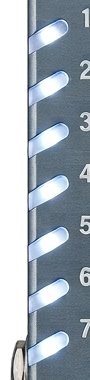
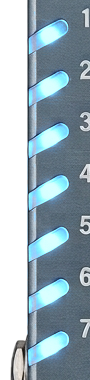
v1.7.1 : bleu glacier plus marqué sur les LED des mémoires et la LED SYNC
Claude-Session: https://claude.ai/code/session_01M5BvnKFDHQRYYiGhNLKRAN

diff --git a/README.md b/README.md
@@ -128,6 +128,9 @@ Looper : Looper
 ## Version 1.6.0
 - v1.6.0 : anti-gel v2 (JUCE 8.0.15, caches refaits par le timer, chien de garde, aucun appel à l'hôte depuis le thread audio)
 
+## Version 1.7.1
+- v1.7.1 : LED des mémoires 1 à 7 et LED SYNC d'un bleu glacier plus marqué (seule la lumière est teintée, la plaque ne change pas)
+
 ## Version 1.7.0
 - v1.7.0 : MIDI Learn sur toutes les commandes (clic droit sur une commande ou menu MIDI), assignations sauvegardées avec le projet
 - CC par défaut : E.LEVEL 20, MIX 21, FEEDBACK 22, TIME 23, MODE 24, X2 25, SYNC 26, EXP 27, BYPASS 80, TAP 81, PREV MEMORY 82, NEXT MEMORY 83.
